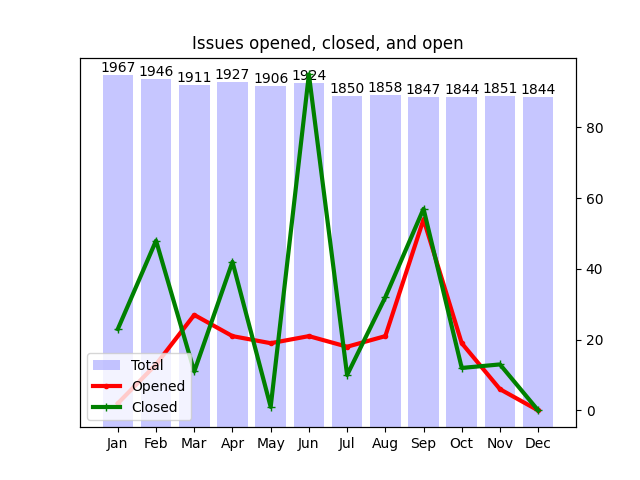
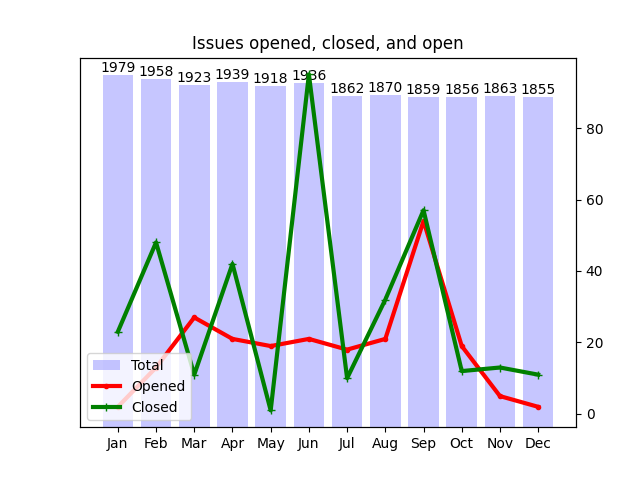
Apply automatic changes

diff --git a/docs/analytics.html b/docs/analytics.html
@@ -119,13 +119,13 @@ td .material-icons { display:inline-flex; vertical-align: top; font-size:1.1rem;
 						</tr>
 						<tr>
 							<td>Nov</td>
-							<td>6</td>
+							<td>5</td>
 							<td>13</td>
 						</tr>
 						<tr>
 							<td>Dec</td>
-							<td>0</td>
-							<td>0</td>
+							<td>2</td>
+							<td>11</td>
 						</tr>
 					</table>
 				</div>
@@ -157,7 +157,7 @@ td .material-icons { display:inline-flex; vertical-align: top; font-size:1.1rem;
 							<td>
 								<a href="http://github.com/notofonts/arabic">arabic</a>
 							</td>
-							<td>37</td>
+							<td>30</td>
 						</tr>
 						<tr>
 							<td>
@@ -216,7 +216,7 @@ td .material-icons { display:inline-flex; vertical-align: top; font-size:1.1rem;
 				<tr>
 					<td>1</td>
 					<td>
-						<a href="http://github.com/notofonts/avestan">avestan</a>,  						<a href="http://github.com/notofonts/bamum">bamum</a>,  						<a href="http://github.com/notofonts/carian">carian</a>,  						<a href="http://github.com/notofonts/deseret">deseret</a>,  						<a href="http://github.com/notofonts/gothic">gothic</a>,  						<a href="http://github.com/notofonts/hanunoo">hanunoo</a>,  						<a href="http://github.com/notofonts/inscriptional-parthian">inscriptional-parthian</a>,  						<a href="http://github.com/notofonts/linear-a">linear-a</a>,  						<a href="http://github.com/notofonts/lisu">lisu</a>,  						<a href="http://github.com/notofonts/mahajani">mahajani</a>,  						<a href="http://github.com/notofonts/masaram-gondi">masaram-gondi</a>,  						<a href="http://github.com/notofonts/meetei-mayek">meetei-mayek</a>,  						<a href="http://github.com/notofonts/mende-kikakui">mende-kikakui</a>,  						<a href="http://github.com/notofonts/miao">miao</a>,  						<a href="http://github.com/notofonts/newa">newa</a>,  						<a href="http://github.com/notofonts/old-italic">old-italic</a>,  						<a href="http://github.com/notofonts/old-persian">old-persian</a>,  						<a href="http://github.com/notofonts/old-uyghur">old-uyghur</a>,  						<a href="http://github.com/notofonts/phoenician">phoenician</a>,  						<a href="http://github.com/notofonts/runic">runic</a>,  						<a href="http://github.com/notofonts/saurashtra">saurashtra</a>,  						<a href="http://github.com/notofonts/sinhala">sinhala</a>,  						<a href="http://github.com/notofonts/sogdian">sogdian</a>,  						<a href="http://github.com/notofonts/tai-le">tai-le</a>,  						<a href="http://github.com/notofonts/thaana">thaana</a>,  						<a href="http://github.com/notofonts/wancho">wancho</a>,  						<a href="http://github.com/notofonts/warang-citi">warang-citi</a> 
+						<a href="http://github.com/notofonts/avestan">avestan</a>,  						<a href="http://github.com/notofonts/bamum">bamum</a>,  						<a href="http://github.com/notofonts/carian">carian</a>,  						<a href="http://github.com/notofonts/deseret">deseret</a>,  						<a href="http://github.com/notofonts/gothic">gothic</a>,  						<a href="http://github.com/notofonts/hanunoo">hanunoo</a>,  						<a href="http://github.com/notofonts/inscriptional-parthian">inscriptional-parthian</a>,  						<a href="http://github.com/notofonts/linear-a">linear-a</a>,  						<a href="http://github.com/notofonts/lisu">lisu</a>,  						<a href="http://github.com/notofonts/mahajani">mahajani</a>,  						<a href="http://github.com/notofonts/masaram-gondi">masaram-gondi</a>,  						<a href="http://github.com/notofonts/meetei-mayek">meetei-mayek</a>,  						<a href="http://github.com/notofonts/mende-kikakui">mende-kikakui</a>,  						<a href="http://github.com/notofonts/miao">miao</a>,  						<a href="http://github.com/notofonts/newa">newa</a>,  						<a href="http://github.com/notofonts/old-hungarian-ui">old-hungarian-ui</a>,  						<a href="http://github.com/notofonts/old-italic">old-italic</a>,  						<a href="http://github.com/notofonts/old-persian">old-persian</a>,  						<a href="http://github.com/notofonts/old-uyghur">old-uyghur</a>,  						<a href="http://github.com/notofonts/phoenician">phoenician</a>,  						<a href="http://github.com/notofonts/runic">runic</a>,  						<a href="http://github.com/notofonts/saurashtra">saurashtra</a>,  						<a href="http://github.com/notofonts/sinhala">sinhala</a>,  						<a href="http://github.com/notofonts/sogdian">sogdian</a>,  						<a href="http://github.com/notofonts/tai-le">tai-le</a>,  						<a href="http://github.com/notofonts/thaana">thaana</a>,  						<a href="http://github.com/notofonts/wancho">wancho</a>,  						<a href="http://github.com/notofonts/warang-citi">warang-citi</a> 
 					</td>
 				</tr>
 				<tr>
@@ -228,19 +228,19 @@ td .material-icons { display:inline-flex; vertical-align: top; font-size:1.1rem;
 				<tr>
 					<td>3</td>
 					<td>
-						<a href="http://github.com/notofonts/Cousine">Cousine</a>,  						<a href="http://github.com/notofonts/Tinos">Tinos</a>,  						<a href="http://github.com/notofonts/ahom">ahom</a>,  						<a href="http://github.com/notofonts/duployan">duployan</a>,  						<a href="http://github.com/notofonts/glagolitic">glagolitic</a>,  						<a href="http://github.com/notofonts/gunjala-gondi">gunjala-gondi</a>,  						<a href="http://github.com/notofonts/mandaic">mandaic</a>,  						<a href="http://github.com/notofonts/nushu">nushu</a>,  						<a href="http://github.com/notofonts/nyiakeng-puachue-hmong">nyiakeng-puachue-hmong</a>,  						<a href="http://github.com/notofonts/old-sogdian">old-sogdian</a>,  						<a href="http://github.com/notofonts/rejang">rejang</a>,  						<a href="http://github.com/notofonts/soyombo">soyombo</a>,  						<a href="http://github.com/notofonts/tagalog">tagalog</a>,  						<a href="http://github.com/notofonts/tai-viet">tai-viet</a>,  						<a href="http://github.com/notofonts/takri">takri</a>,  						<a href="http://github.com/notofonts/tangsa">tangsa</a> 
+						<a href="http://github.com/notofonts/Cousine">Cousine</a>,  						<a href="http://github.com/notofonts/Tinos">Tinos</a>,  						<a href="http://github.com/notofonts/ahom">ahom</a>,  						<a href="http://github.com/notofonts/duployan">duployan</a>,  						<a href="http://github.com/notofonts/ethiopic">ethiopic</a>,  						<a href="http://github.com/notofonts/glagolitic">glagolitic</a>,  						<a href="http://github.com/notofonts/gunjala-gondi">gunjala-gondi</a>,  						<a href="http://github.com/notofonts/mandaic">mandaic</a>,  						<a href="http://github.com/notofonts/nushu">nushu</a>,  						<a href="http://github.com/notofonts/nyiakeng-puachue-hmong">nyiakeng-puachue-hmong</a>,  						<a href="http://github.com/notofonts/old-sogdian">old-sogdian</a>,  						<a href="http://github.com/notofonts/rejang">rejang</a>,  						<a href="http://github.com/notofonts/soyombo">soyombo</a>,  						<a href="http://github.com/notofonts/tagalog">tagalog</a>,  						<a href="http://github.com/notofonts/tai-viet">tai-viet</a>,  						<a href="http://github.com/notofonts/takri">takri</a>,  						<a href="http://github.com/notofonts/tangsa">tangsa</a> 
 					</td>
 				</tr>
 				<tr>
 					<td>4</td>
 					<td>
-						<a href="http://github.com/notofonts/caucasian-albanian">caucasian-albanian</a>,  						<a href="http://github.com/notofonts/dogra">dogra</a>,  						<a href="http://github.com/notofonts/grantha">grantha</a>,  						<a href="http://github.com/notofonts/khudawadi">khudawadi</a>,  						<a href="http://github.com/notofonts/manichaean">manichaean</a>,  						<a href="http://github.com/notofonts/oriya">oriya</a>,  						<a href="http://github.com/notofonts/sundanese">sundanese</a>,  						<a href="http://github.com/notofonts/tai-tham">tai-tham</a>,  						<a href="http://github.com/notofonts/telugu">telugu</a> 
+						<a href="http://github.com/notofonts/armenian">armenian</a>,  						<a href="http://github.com/notofonts/caucasian-albanian">caucasian-albanian</a>,  						<a href="http://github.com/notofonts/dogra">dogra</a>,  						<a href="http://github.com/notofonts/grantha">grantha</a>,  						<a href="http://github.com/notofonts/khudawadi">khudawadi</a>,  						<a href="http://github.com/notofonts/manichaean">manichaean</a>,  						<a href="http://github.com/notofonts/oriya">oriya</a>,  						<a href="http://github.com/notofonts/sundanese">sundanese</a>,  						<a href="http://github.com/notofonts/tai-tham">tai-tham</a>,  						<a href="http://github.com/notofonts/telugu">telugu</a> 
 					</td>
 				</tr>
 				<tr>
 					<td>5</td>
 					<td>
-						<a href="http://github.com/notofonts/armenian">armenian</a>,  						<a href="http://github.com/notofonts/bhaiksuki">bhaiksuki</a>,  						<a href="http://github.com/notofonts/canadian-aboriginal">canadian-aboriginal</a>,  						<a href="http://github.com/notofonts/egyptian-hieroglyphs">egyptian-hieroglyphs</a>,  						<a href="http://github.com/notofonts/ethiopic">ethiopic</a>,  						<a href="http://github.com/notofonts/javanese">javanese</a>,  						<a href="http://github.com/notofonts/modi">modi</a>,  						<a href="http://github.com/notofonts/nandinagari">nandinagari</a> 
+						<a href="http://github.com/notofonts/bhaiksuki">bhaiksuki</a>,  						<a href="http://github.com/notofonts/canadian-aboriginal">canadian-aboriginal</a>,  						<a href="http://github.com/notofonts/egyptian-hieroglyphs">egyptian-hieroglyphs</a>,  						<a href="http://github.com/notofonts/javanese">javanese</a>,  						<a href="http://github.com/notofonts/modi">modi</a>,  						<a href="http://github.com/notofonts/nandinagari">nandinagari</a> 
 					</td>
 				</tr>
 				<tr>
